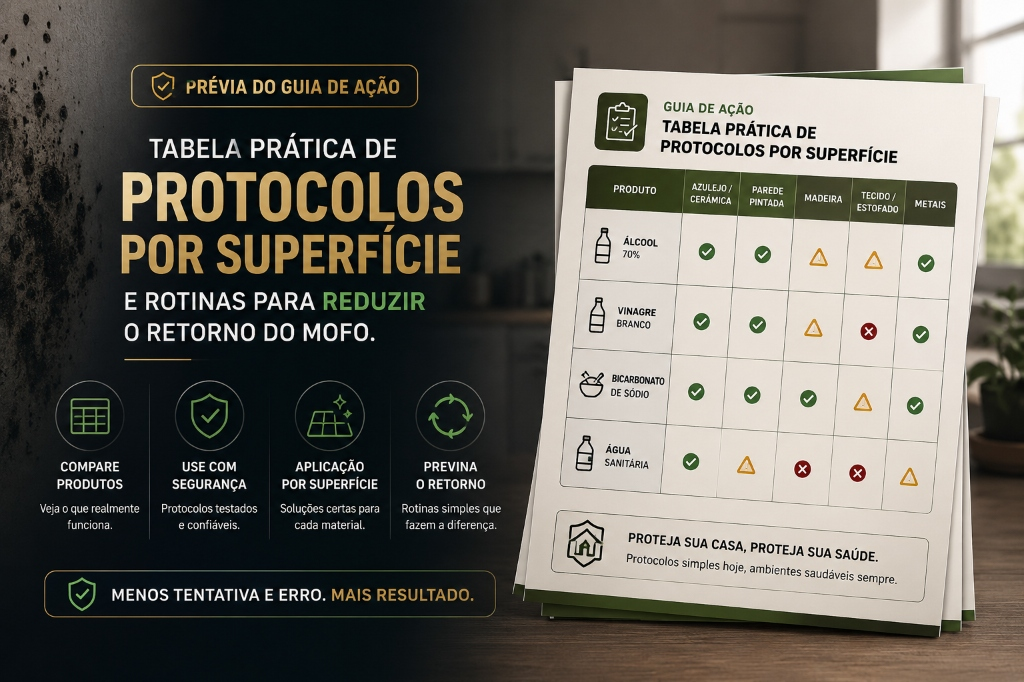
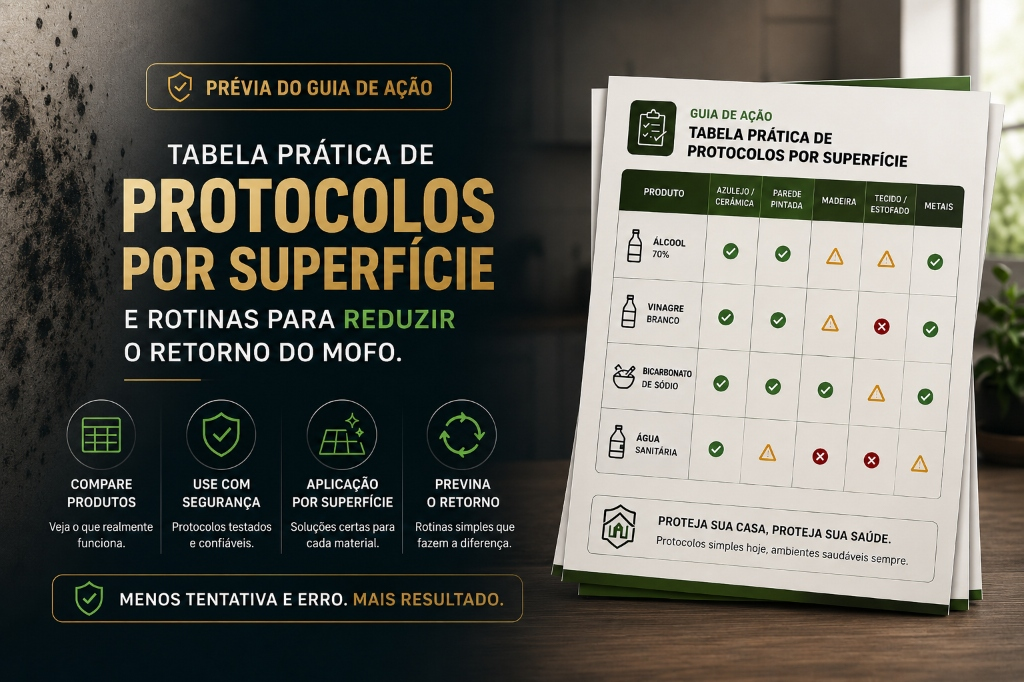
feat(vocabulary): replace technical term 'protocolo' with simpler words and update 4 caminhos preview image

diff --git a/index.html b/index.html
@@ -1146,12 +1146,12 @@
     <div class="topbar-track variant-b" aria-hidden="true">
       <div class="topbar-group">
         <span>ATENÇÃO: O CHEIRO DE GUARDADO NÃO É SÓ SUJEIRA, É UM RISCO REAL PARA A SAÚDE DA SUA FAMÍLIA</span>
-        <span>ACESSO IMEDIATO AO PROTOCOLO SHIELD</span>
+        <span>ACESSO IMEDIATO AO GUIA SHIELD</span>
         <span>APENAS R$37 HOJE</span>
       </div>
       <div class="topbar-group">
         <span>ATENÇÃO: O CHEIRO DE GUARDADO NÃO É SÓ SUJEIRA, É UM RISCO REAL PARA A SAÚDE DA SUA FAMÍLIA</span>
-        <span>ACESSO IMEDIATO AO PROTOCOLO SHIELD</span>
+        <span>ACESSO IMEDIATO AO GUIA SHIELD</span>
         <span>APENAS R$37 HOJE</span>
       </div>
     </div>
@@ -1165,7 +1165,7 @@
         <h1 class="variant-a">Pare de perder roupas e calçados caros para o mofo que volta toda semana.</h1>
         
         <!-- VARIACAO B (VARIANTE) -->
-        <span class="eyebrow variant-b">PROTOCOLO SHIELD ANTI-MOFO</span>
+        <span class="eyebrow variant-b">GUIA SHIELD ANTI-MOFO</span>
         <h1 class="variant-b">O mofo do seu guarda-roupa está silenciosamente adoecendo sua família.</h1>
 
         <div class="hero-visual" aria-label="Mockup visual do produto MOFO ZERO">
@@ -1222,7 +1222,7 @@
               <img src="mofo-zero-diagnostico-preview.jpg" alt="Prévia interna do teste rápido de 2 minutos do MOFO ZERO">
             </div>
             <div class="inside-preview-image">
-              <img src="mofo-zero-guia-4-caminhos-preview.jpg" alt="Prévia interna da tabela prática de protocolos por superfície do MOFO ZERO">
+              <img src="mofo-zero-guia-4-caminhos-preview.jpg" alt="Prévia interna da tabela prática de aplicação por superfície do MOFO ZERO">
             </div>
           </div>
         </div>
@@ -1234,7 +1234,7 @@
         <div>
           <span class="eyebrow dark">Benefícios na prática</span>
           <h2>O que muda quando você para de agir no improviso</h2>
-          <p class="copy">Em vez de testar misturas arriscadas, o MOFO ZERO blinda seus pertences e protege sua casa com um protocolo rápido de aplicação segura.</p>
+          <p class="copy">Em vez de testar misturas arriscadas, o MOFO ZERO blinda seus pertences e protege sua casa com um passo a passo rápido de aplicação segura.</p>
 
           <div class="benefit-list">
             <button class="benefit-item is-active" type="button">
@@ -1282,7 +1282,7 @@
         <div class="audience-grid">
           <div class="audience-card"><strong>Já perdeu peças caras</strong><p>Para quem odeia o sentimento de jogar roupas, casacos ou calçados no lixo por causa do bolor.</p></div>
           <div class="audience-card"><strong>Sofre com o cheiro de guardado</strong><p>Para quem quer abrir o guarda-roupa e sentir cheiro de limpeza, não de mofo e umidade.</p></div>
-          <div class="audience-card"><strong>Quer salvar sapatos ou bolsas</strong><p>Materiais sensíveis (couro, camurça, sintéticos) que exigem protocolos de cuidado sem risco de manchas.</p></div>
+          <div class="audience-card"><strong>Quer salvar sapatos ou bolsas</strong><p>Materiais sensíveis (couro, camurça, sintéticos) que exigem cuidados especiais sem risco de manchas.</p></div>
           <div class="audience-card"><strong>Preocupado com crises alérgicas</strong><p>Ideal para mães e pais cansados de ver os filhos tossindo ou com rinite ativa por causa de fungos ocultos.</p></div>
           <div class="audience-card"><strong>Tem medo de misturas tóxicas</strong><p>Quem deseja saber exatamente o que funciona, sem inalar vapores de cloro, vinagre e bicarbonato misturados.</p></div>
           <div class="audience-card"><strong>Quer acabar com a volta do mofo</strong><p>Para quem já limpou várias vezes e precisa de uma barreira preventiva simples para que o fungo não retorne.</p></div>
@@ -1299,7 +1299,7 @@
         <div>
           <span class="eyebrow dark">Tudo o que você recebe</span>
           <h2>O método completo para blindar sua casa imediatamente</h2>
-          <p class="copy">Você não recebe teorias. Recebe um conjunto de protocolos de ação cirúrgica para abrir, ler em 2 minutos e agir com segurança.</p>
+          <p class="copy">Você não recebe teorias. Recebe um conjunto de guias práticos de ação rápida para abrir, ler em 2 minutos e agir com segurança.</p>
 
           <div class="bonus-grid">
             <div class="bonus">
@@ -1323,14 +1323,14 @@
       <div class="wrap">
         <div class="offer-card">
           <span class="eyebrow dark">Oferta por tempo limitado</span>
-          <h2>Adquira o Protocolo MOFO ZERO completo</h2>
+          <h2>Adquira o Guia MOFO ZERO completo</h2>
           <p class="copy" style="margin-left:auto;margin-right:auto;">Receba o guia de ação rápida 3F, o checklist de cômodos, a tabela de produtos e superfícies, o plano de choque de 7 dias e a lista inteligente de compras.</p>
           <div class="price"><span>apenas</span><strong>R$ 37</strong></div>
           <div class="offer-bullets">
             <div>Acesso imediato ao material</div>
             <div>Área de membros segura</div>
             <div>Garantia incondicional de 7 dias</div>
-            <div>Protocolo simplificado anti-fungos</div>
+            <div>Guia prático anti-fungos</div>
           </div>
           <a class="btn coral" href="#oferta">Garantir Meu Acesso ao Mofo Zero</a>
         </div>
@@ -1345,7 +1345,7 @@
         <div>
           <span class="eyebrow dark">Risco Zero: Garantia Incondicional</span>
           <h2>Teste o método por 7 dias inteiros</h2>
-          <p class="copy">Abra o protocolo, aplique as tabelas por material e veja os resultados práticos na sua casa. Se no período de uma semana você achar que o manual não te ajudou a salvar seus bens ou a desinfectar seus cômodos, basta enviar um e-mail para receber 100% de reembolso. Risco zero para você.</p>
+          <p class="copy">Abra o guia, aplique as tabelas por material e veja os resultados práticos na sua casa. Se no período de uma semana você achar que o manual não te ajudou a salvar seus bens ou a desinfectar seus cômodos, basta enviar um e-mail para receber 100% de reembolso. Risco zero para você.</p>
         </div>
       </div>
     </section>